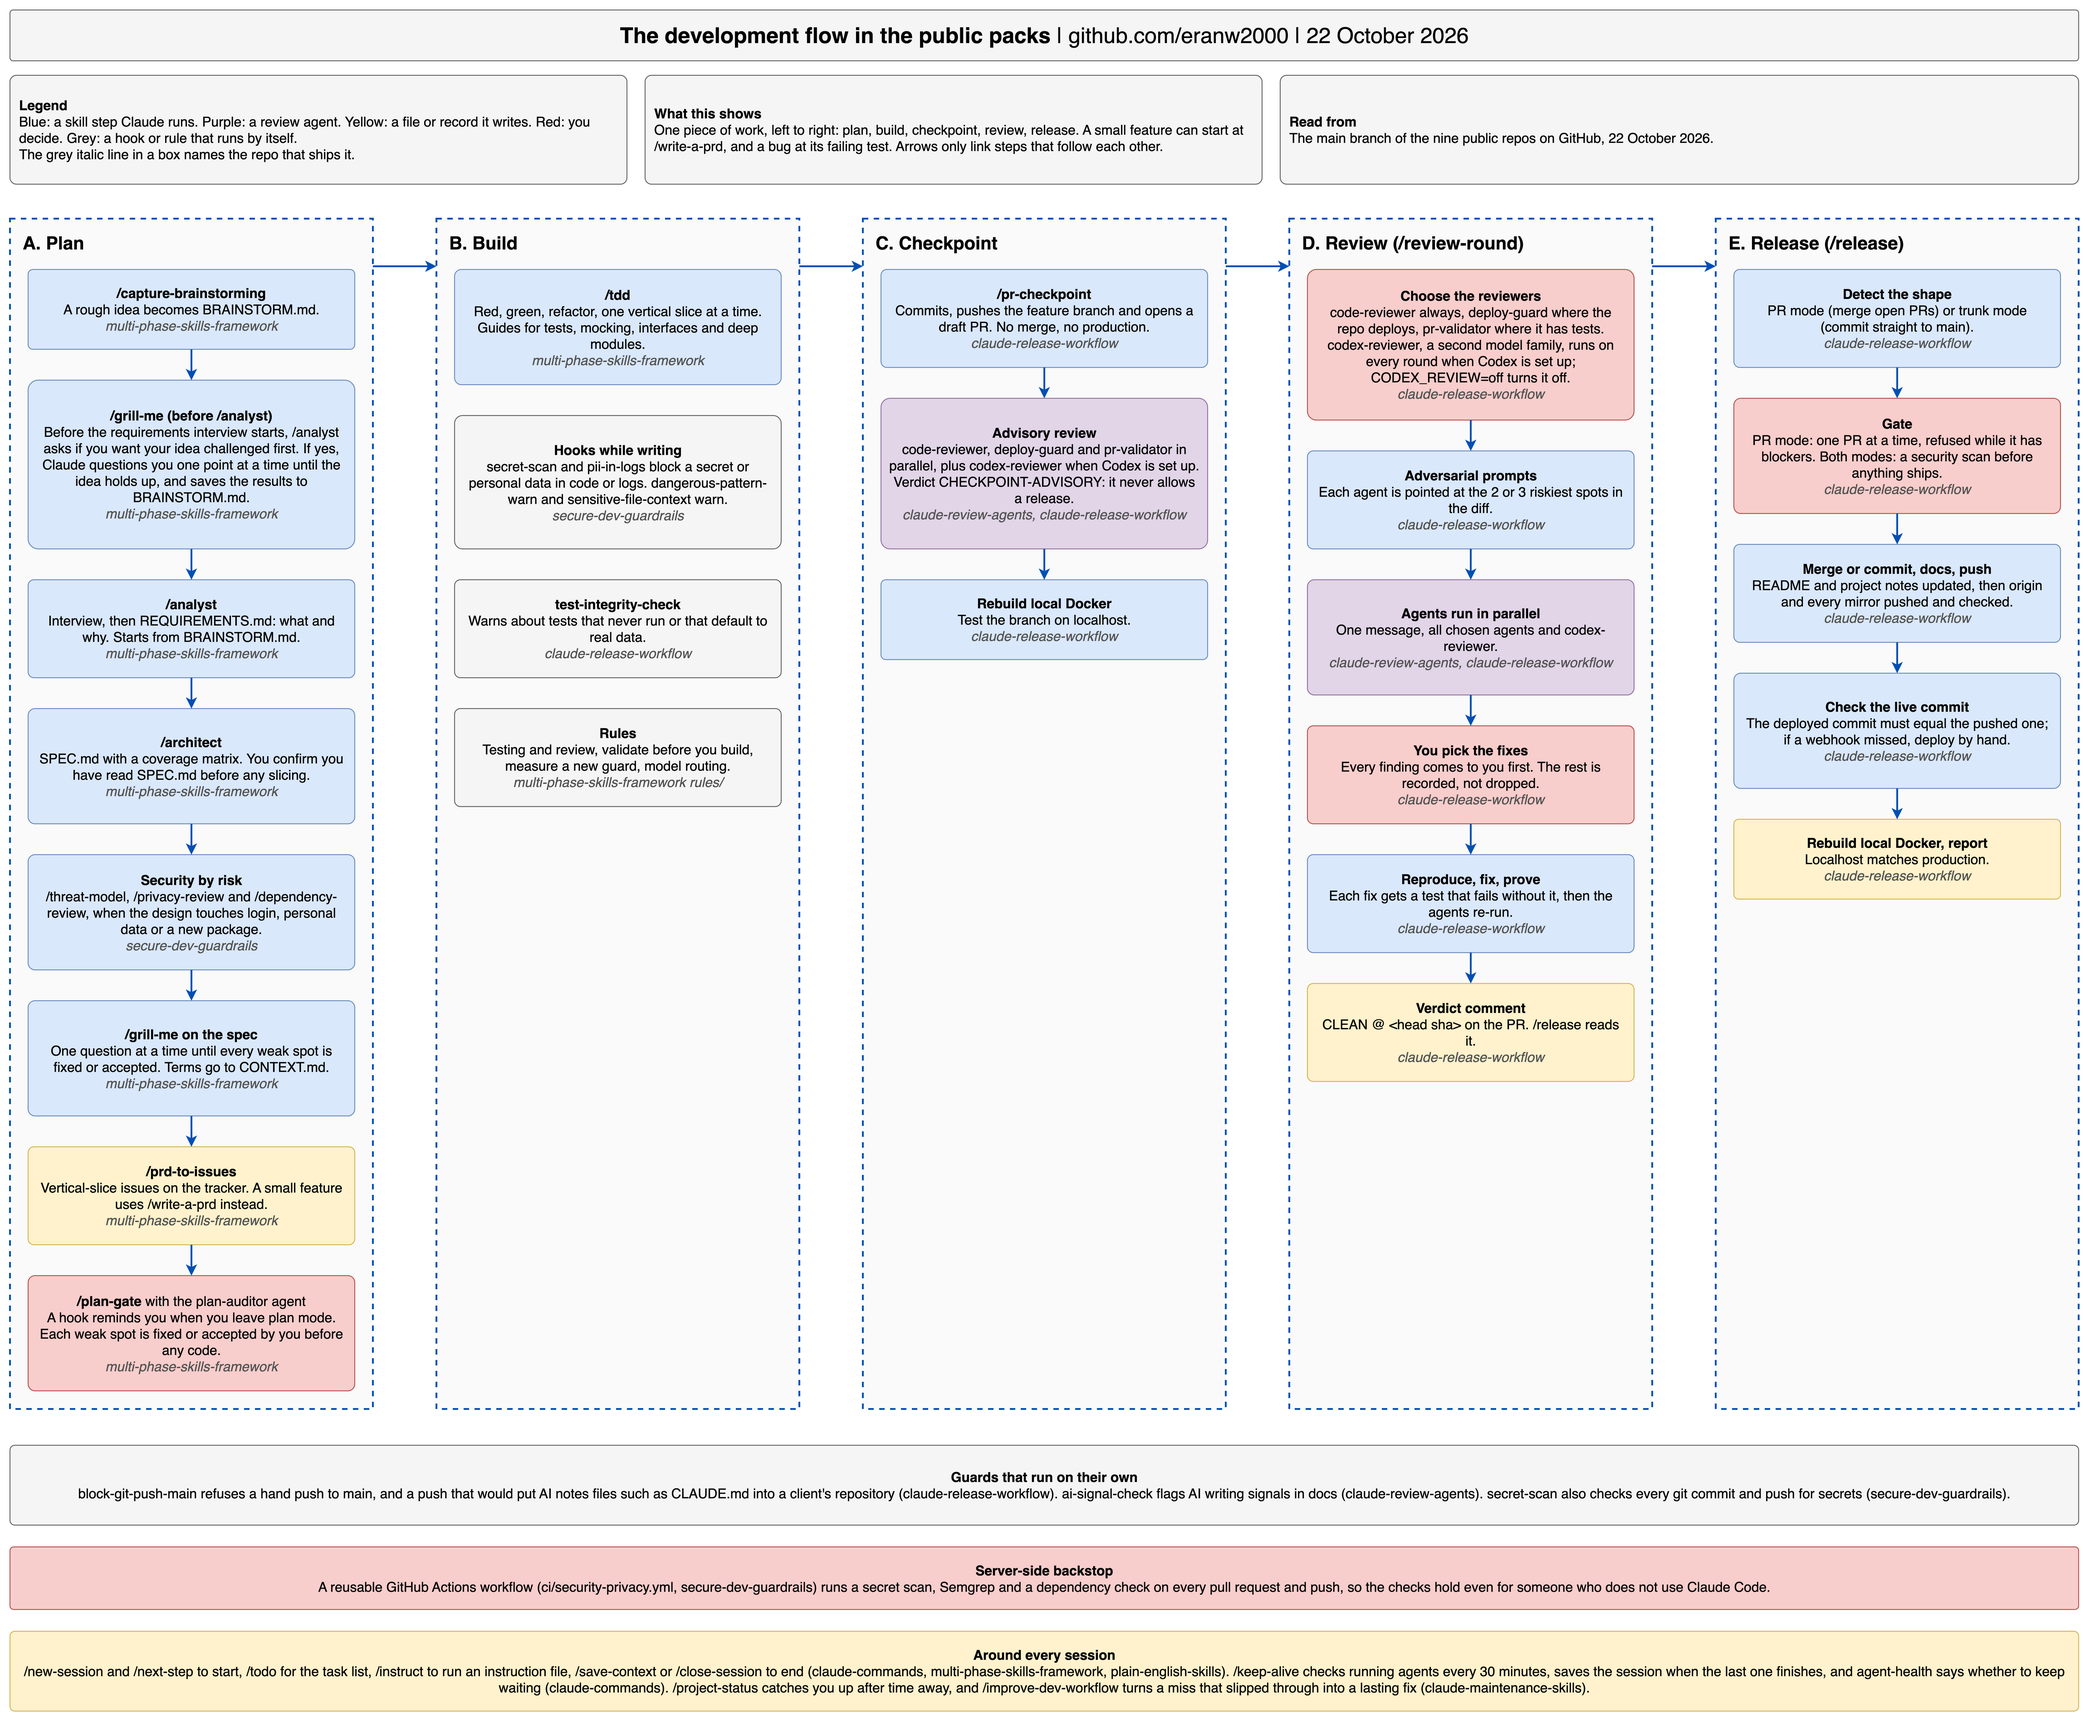
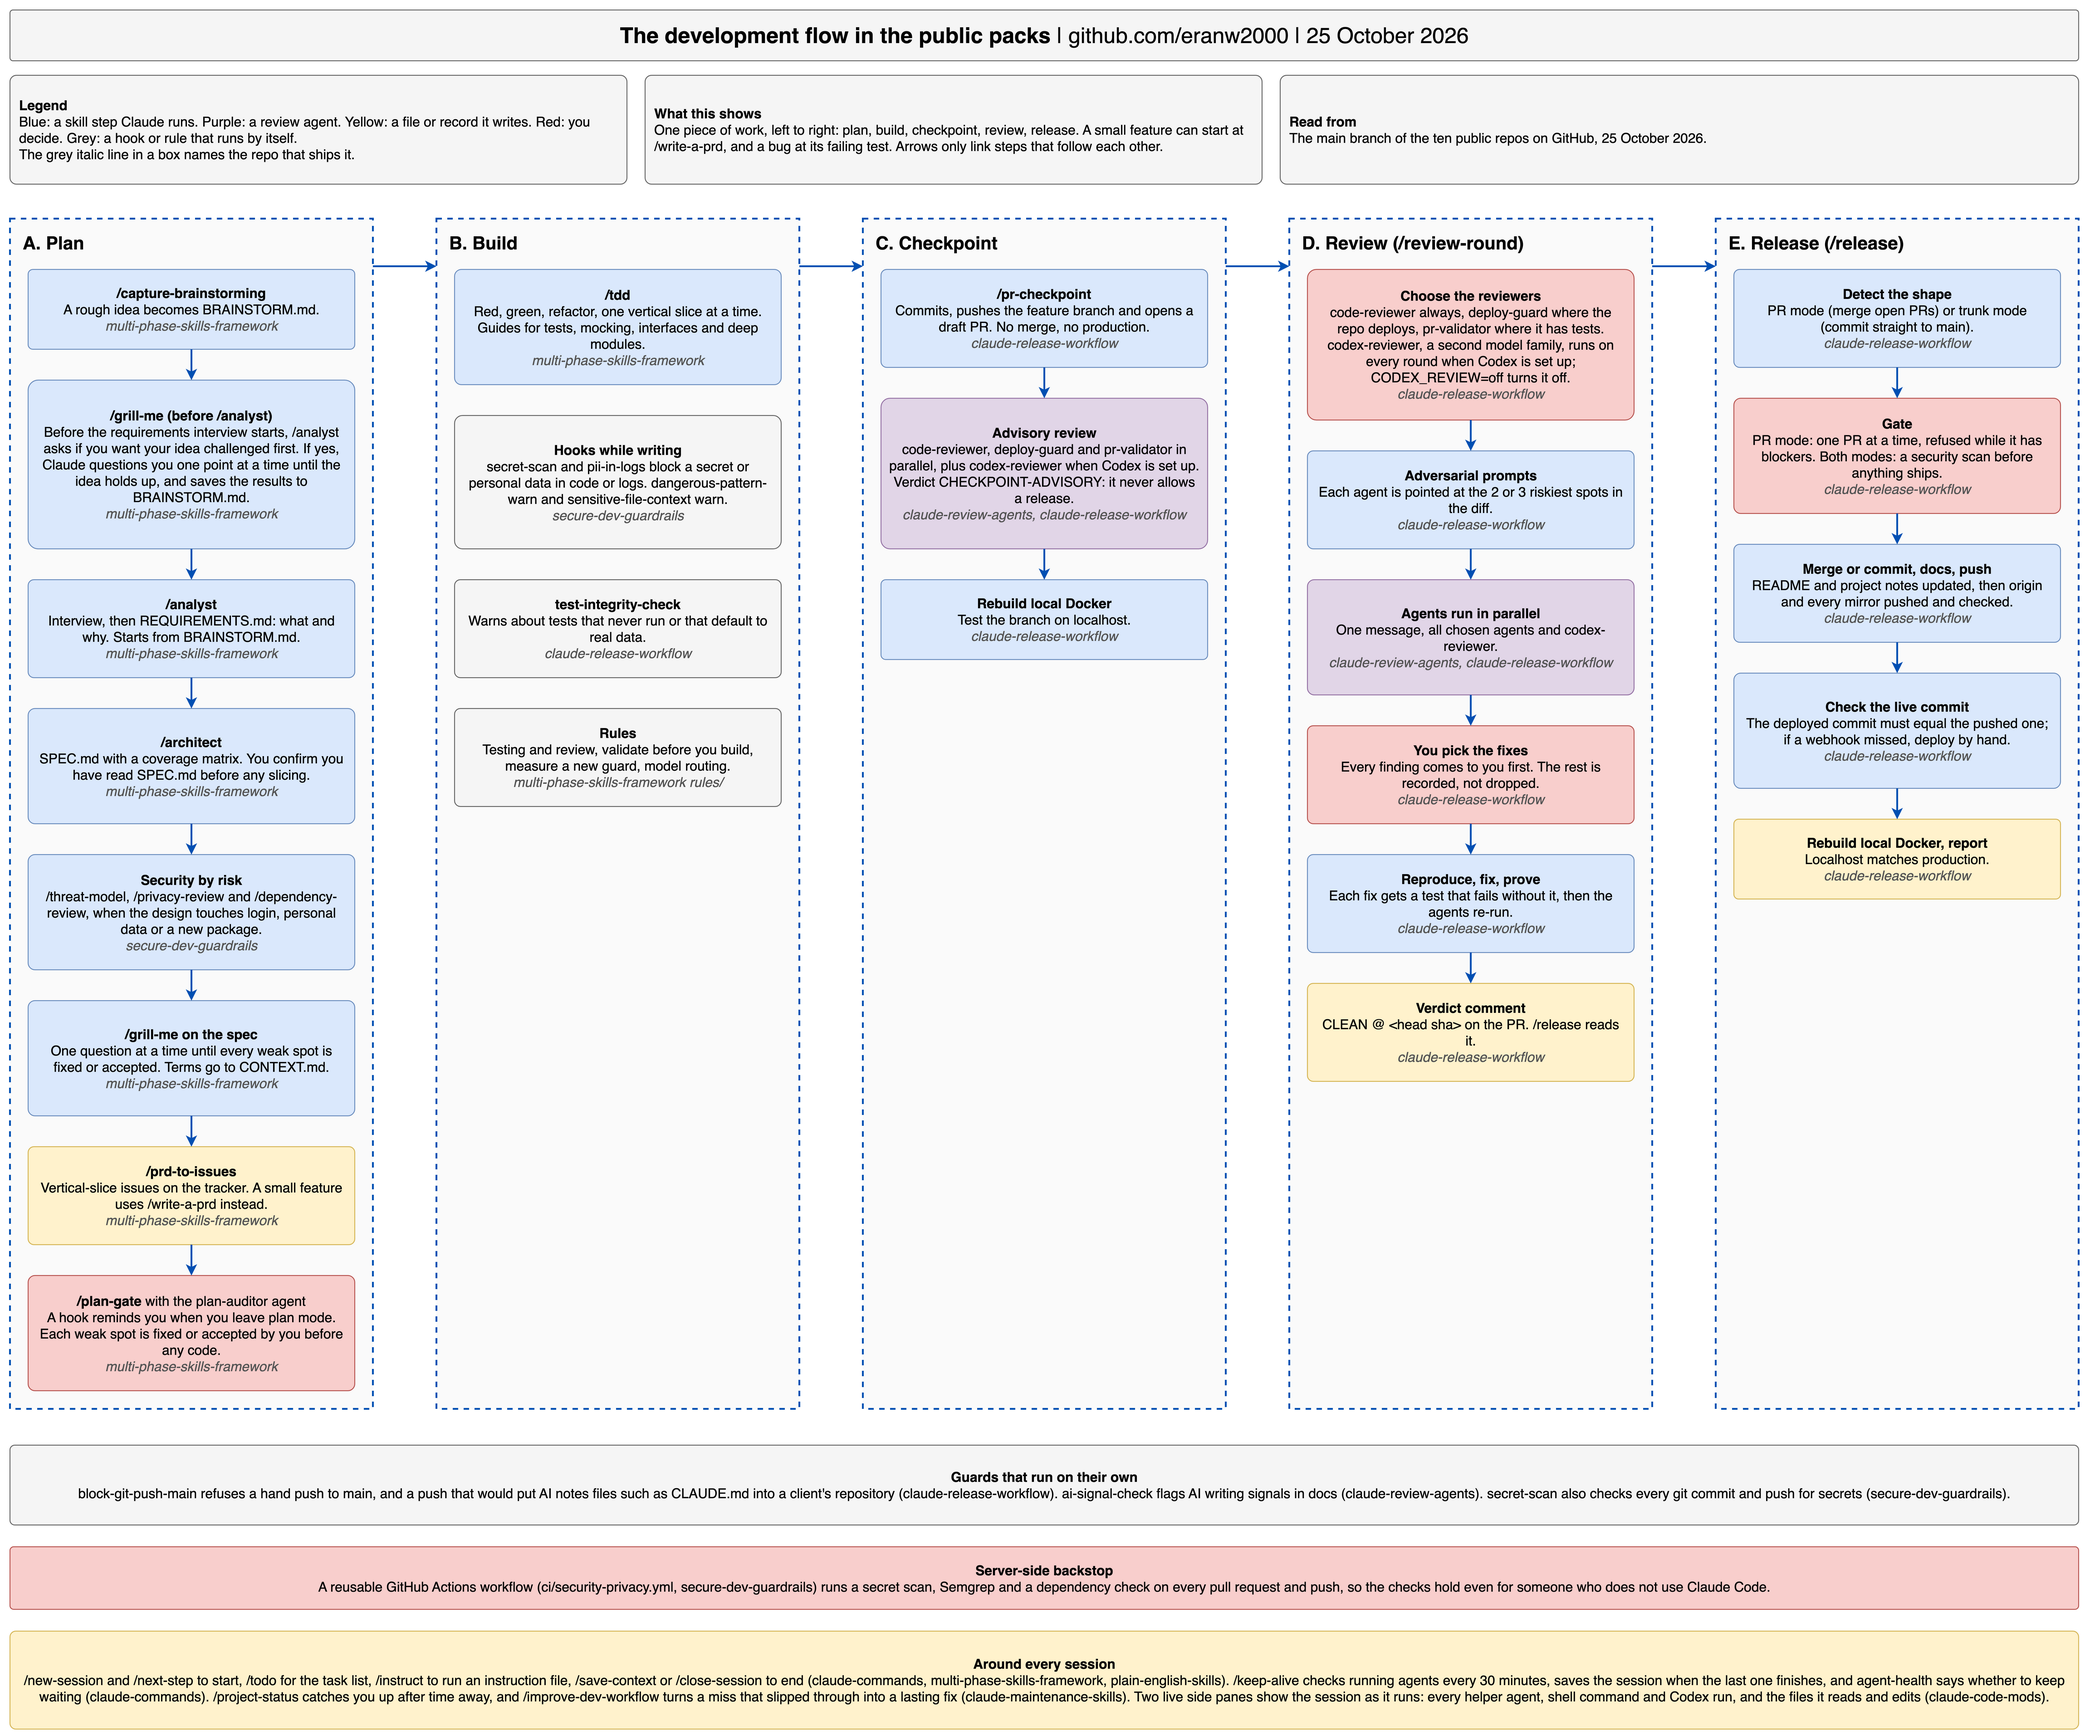
Profile: claude-code-mods, the live side panes for Claude Code
Listed with the other public repos, and added to the development-flow diagram (the session band and the per-repo page).

diff --git a/README.md b/README.md
@@ -24,6 +24,7 @@ Most of that work lives in private repos. What you see here is the **AI-native d
 - **[google-slides-skill](https://github.com/eranw2000/google-slides-skill)** rebuilds a Google Slides deck against branding you point it at: one design system, card layouts instead of paragraph dumps, real tables, and a render of every slide it touches before it says the deck is ready.
 
 - **[plain-english-skills](https://github.com/eranw2000/plain-english-skills)** makes Claude write for a reader instead of for the session it has been sitting in: restate the last report in plain English, name the next step with the command to start it, or rewrite a document into Simplified Technical English with a checker that exits non-zero on violations.
+- **[claude-code-mods](https://github.com/eranw2000/claude-code-mods)** adds live side panes to Claude Code: one shows every helper agent, shell command and Codex run while it works, the other the files a session reads and edits.
 
 ### How the repos fit together
 
